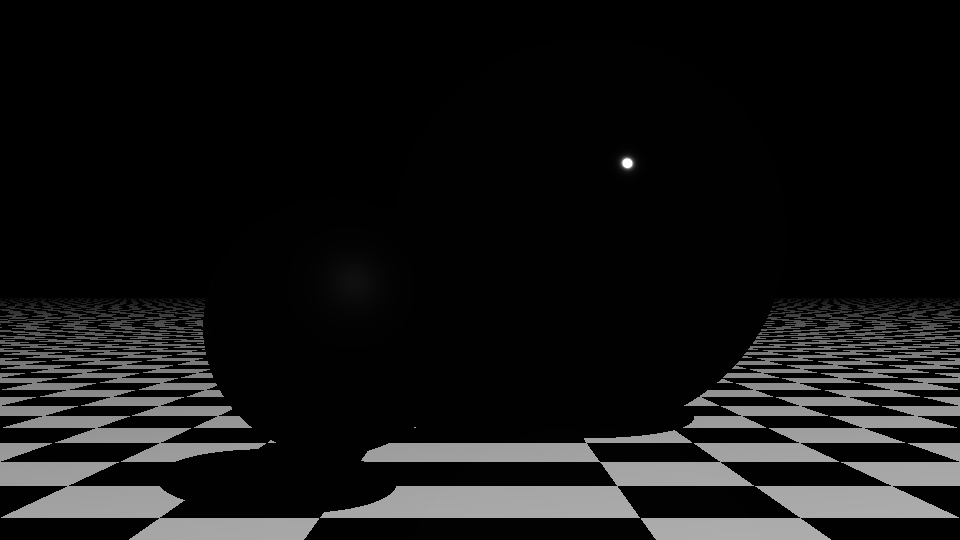
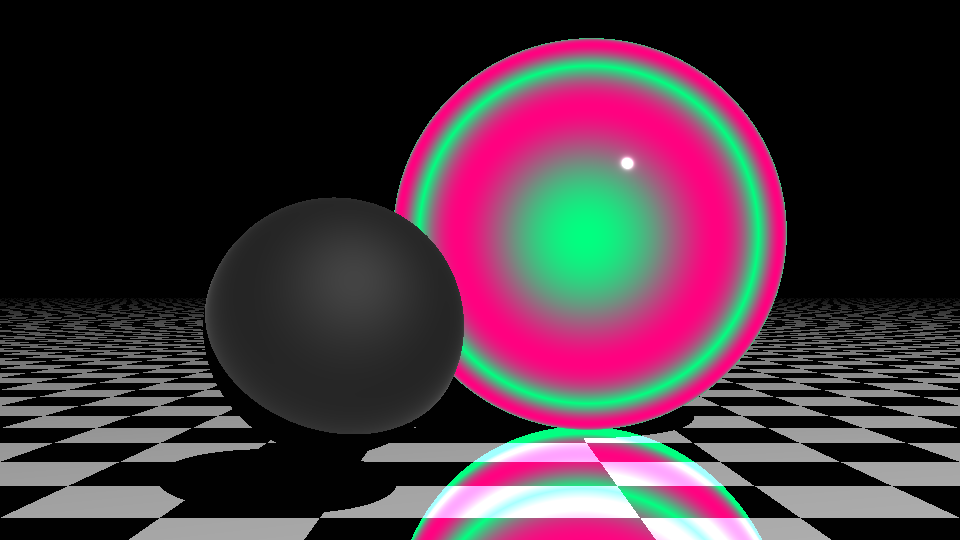
feat: physical iridescence

diff --git a/ray_tracer/infrastructure/numpy/shader.py b/ray_tracer/infrastructure/numpy/shader.py
@@ -49,6 +49,9 @@ class NumpyShader(Shader):
         self.diffuse_gain = diffuse_gain
         self.diffuse_color = diffuse_color
         self.specular_ior = 1.5  # default value for glass
+        self.thin_film_weight = 0.1  # range [0, 1]
+        self.thin_film_thickness = 0.3  # range [0, 1]
+        self.thin_film_ior = 1.4  # range [1, 3]
 
     def to_rgb(self, shader: Self) -> NumpyRGBColor:
         return NumpyRGBColor(
@@ -96,7 +99,7 @@ class NumpyShader(Shader):
 
         color += self._calculate_physical_specular(normal, direction_to_light, direction_to_ray_origin) * is_in_light
 
-        color += self._calculate_iridescence(normal, direction_to_ray_origin)
+        color += self._calculate_physical_iridescence(normal, direction_to_ray_origin)
 
         return color
 
@@ -170,25 +173,52 @@ class NumpyShader(Shader):
     def _calculate_ambient_color(self) -> NumpyRGBColor:
         return NumpyRGBColor(0.004, 0.004, 0.004)  # minimum black color
 
-    def _calculate_iridescence(
+    def _calculate_physical_iridescence(
         self,
         normal: NumpyVector3D,
         direction_to_ray_origin: NumpyVector3D,
     ) -> NumpyRGBColor:
-        """Irisdescence effect based on the angle between the normal and the direction to the ray origin.
-        The more the angle is close to 90 degrees, the more the iridescence effect is visible.
-        The iridescence effect is more pronounced at the edges of the object.
+        """Calculates an iridescence color based on thin-film interference,
+        incorporating three parameters:
+            - thin_film_weight: the weight (coverage) that blends the film effect with the base,
+            - thin_film_thickness: the thickness of the film, affecting the spacing of the fringes,
+            - thin_film_ior: the refractive index of the film, influencing the hue of the fringes.
+
+        The effect is achieved by modulating a sinusoidal oscillation (simulating interference)
+        based on the angle between the normal and the direction to the ray origin.
         """
+        # Calculate the viewing angle, in [0,1]
         view_angle = np.clip(normal.dot(direction_to_ray_origin), 0.0, 1.0)
 
-        iridescence_factor = (
-            np.abs(view_angle - 0.5) * 2  # 0.5 is the middle of the angle, it amplifies the effect on the edges
-        )
+        # An angular factor centered around 0.5 to enhance the effect at the edges
+        angle_factor = np.abs(view_angle - 0.5) * 2.0
 
-        color_variation = np.sin(iridescence_factor * np.pi)
-        iridescence_color = NumpyRGBColor(color_variation, 1 - color_variation, 0.5)  # modify z to shift the color
+        # Use the thickness to adjust the frequency of the fringes:
+        # Multiply by π and an arbitrary factor (here 10) to highlight oscillations.
+        phase = angle_factor * np.pi * self.thin_film_thickness * 10.0
 
-        return iridescence_color * self.iridescence_gain
+        # The interference pattern oscillates between -1 and 1
+        interference_pattern = np.sin(phase)
+
+        # The refractive index influences the hue. Here, thin_film_ior is mapped from [1,3] to a factor [0,1]
+        # which will be used to vary the red and green components.
+        hue_shift = (self.thin_film_ior - 1.0) / 2.0
+
+        # Construct a fringe color whose intensity varies with the interference and the index:
+        # - The red component is boosted when hue_shift is high,
+        # - The green component is complemented inversely,
+        # - The blue component is positioned around 0.5 and modulated by the interference.
+        r = interference_pattern * hue_shift + (1.0 - hue_shift) * (1.0 - interference_pattern)
+        g = interference_pattern * (1.0 - hue_shift) + hue_shift * (1.0 - interference_pattern)
+        b = 0.5 + 0.5 * interference_pattern
+
+        film_color = NumpyRGBColor(r, g, b)
+
+        # The film weight allows blending between the film result (with iridescent effect) and the base BSDF (considered neutral here, e.g., white)
+        blended_color = film_color * self.thin_film_weight
+
+        # Return the final color weighted by a global iridescence gain
+        return blended_color * self.iridescence_gain
 
     def _calculate_dome_light(self, normal: NumpyVector3D, scene: Scene3D) -> NumpyRGBColor:
         light_direction = NumpyVector3D(0, 1, 0)  # from sky

diff --git a/main.py b/main.py
@@ -16,21 +16,21 @@ if __name__ == "__main__":
                 NumpyVector3D(0.55, 0.5, 3),
                 1.0,
                 NumpyShader(
-                    reflection_gain=0.0,
-                    specular_gain=1.0,
-                    specular_roughness=0.1,
-                    iridescence_gain=0.0,
-                    diffuse_gain=0.0,
-                    diffuse_color=Texture(NumpyRGBColor(0, 1, 0)),
+                    reflection_gain=0,
+                    specular_gain=5.0,
+                    specular_roughness=0.3,
+                    iridescence_gain=1.0,
+                    diffuse_gain=0.1,
+                    diffuse_color=Texture(NumpyRGBColor(1, 1, 1)),
                 ),
             ),
             NumpySphere(
                 NumpyVector3D(-0.45, 0.1, 1),
                 0.4,
                 NumpyShader(
-                    reflection_gain=0.0,
-                    specular_gain=1.0,
-                    specular_roughness=0.5,
+                    reflection_gain=0.1,
+                    specular_gain=3.0,
+                    specular_roughness=0.3,
                     iridescence_gain=0.0,
                     diffuse_gain=0.0,
                     diffuse_color=Texture(NumpyRGBColor(1, 0, 0)),
@@ -39,17 +39,17 @@ if __name__ == "__main__":
             NumpySphere(
                 NumpyVector3D(0, -99999.5, 0),
                 99999,
-                NumpyShader(1.0, 0.0, 0.0, 0.0, 1.0, TextureChecker()),
+                NumpyShader(1.0, 1.0, 0.5, 0.0, 1.0, TextureChecker()),
             ),
         ],
         [
-            PointLight(NumpyVector3D(5, 10, -10)),
-            # DomeLight(0.1, NumpyRGBColor(1, 1, 1)),
+            PointLight(NumpyVector3D(3, 5, 0)),
+            DomeLight(0.1, NumpyRGBColor(1, 1, 1)),
         ],
         Camera(NumpyVector3D(0, 0.2, -2), int(1920 / 2), int(1080 / 2)),
     )
 
-    output_path = Path("render.png")
+    output_path = Path("render2.png")
 
     start_time = time.time()
     render_image_pipeline(scene, output_path, renderer)
